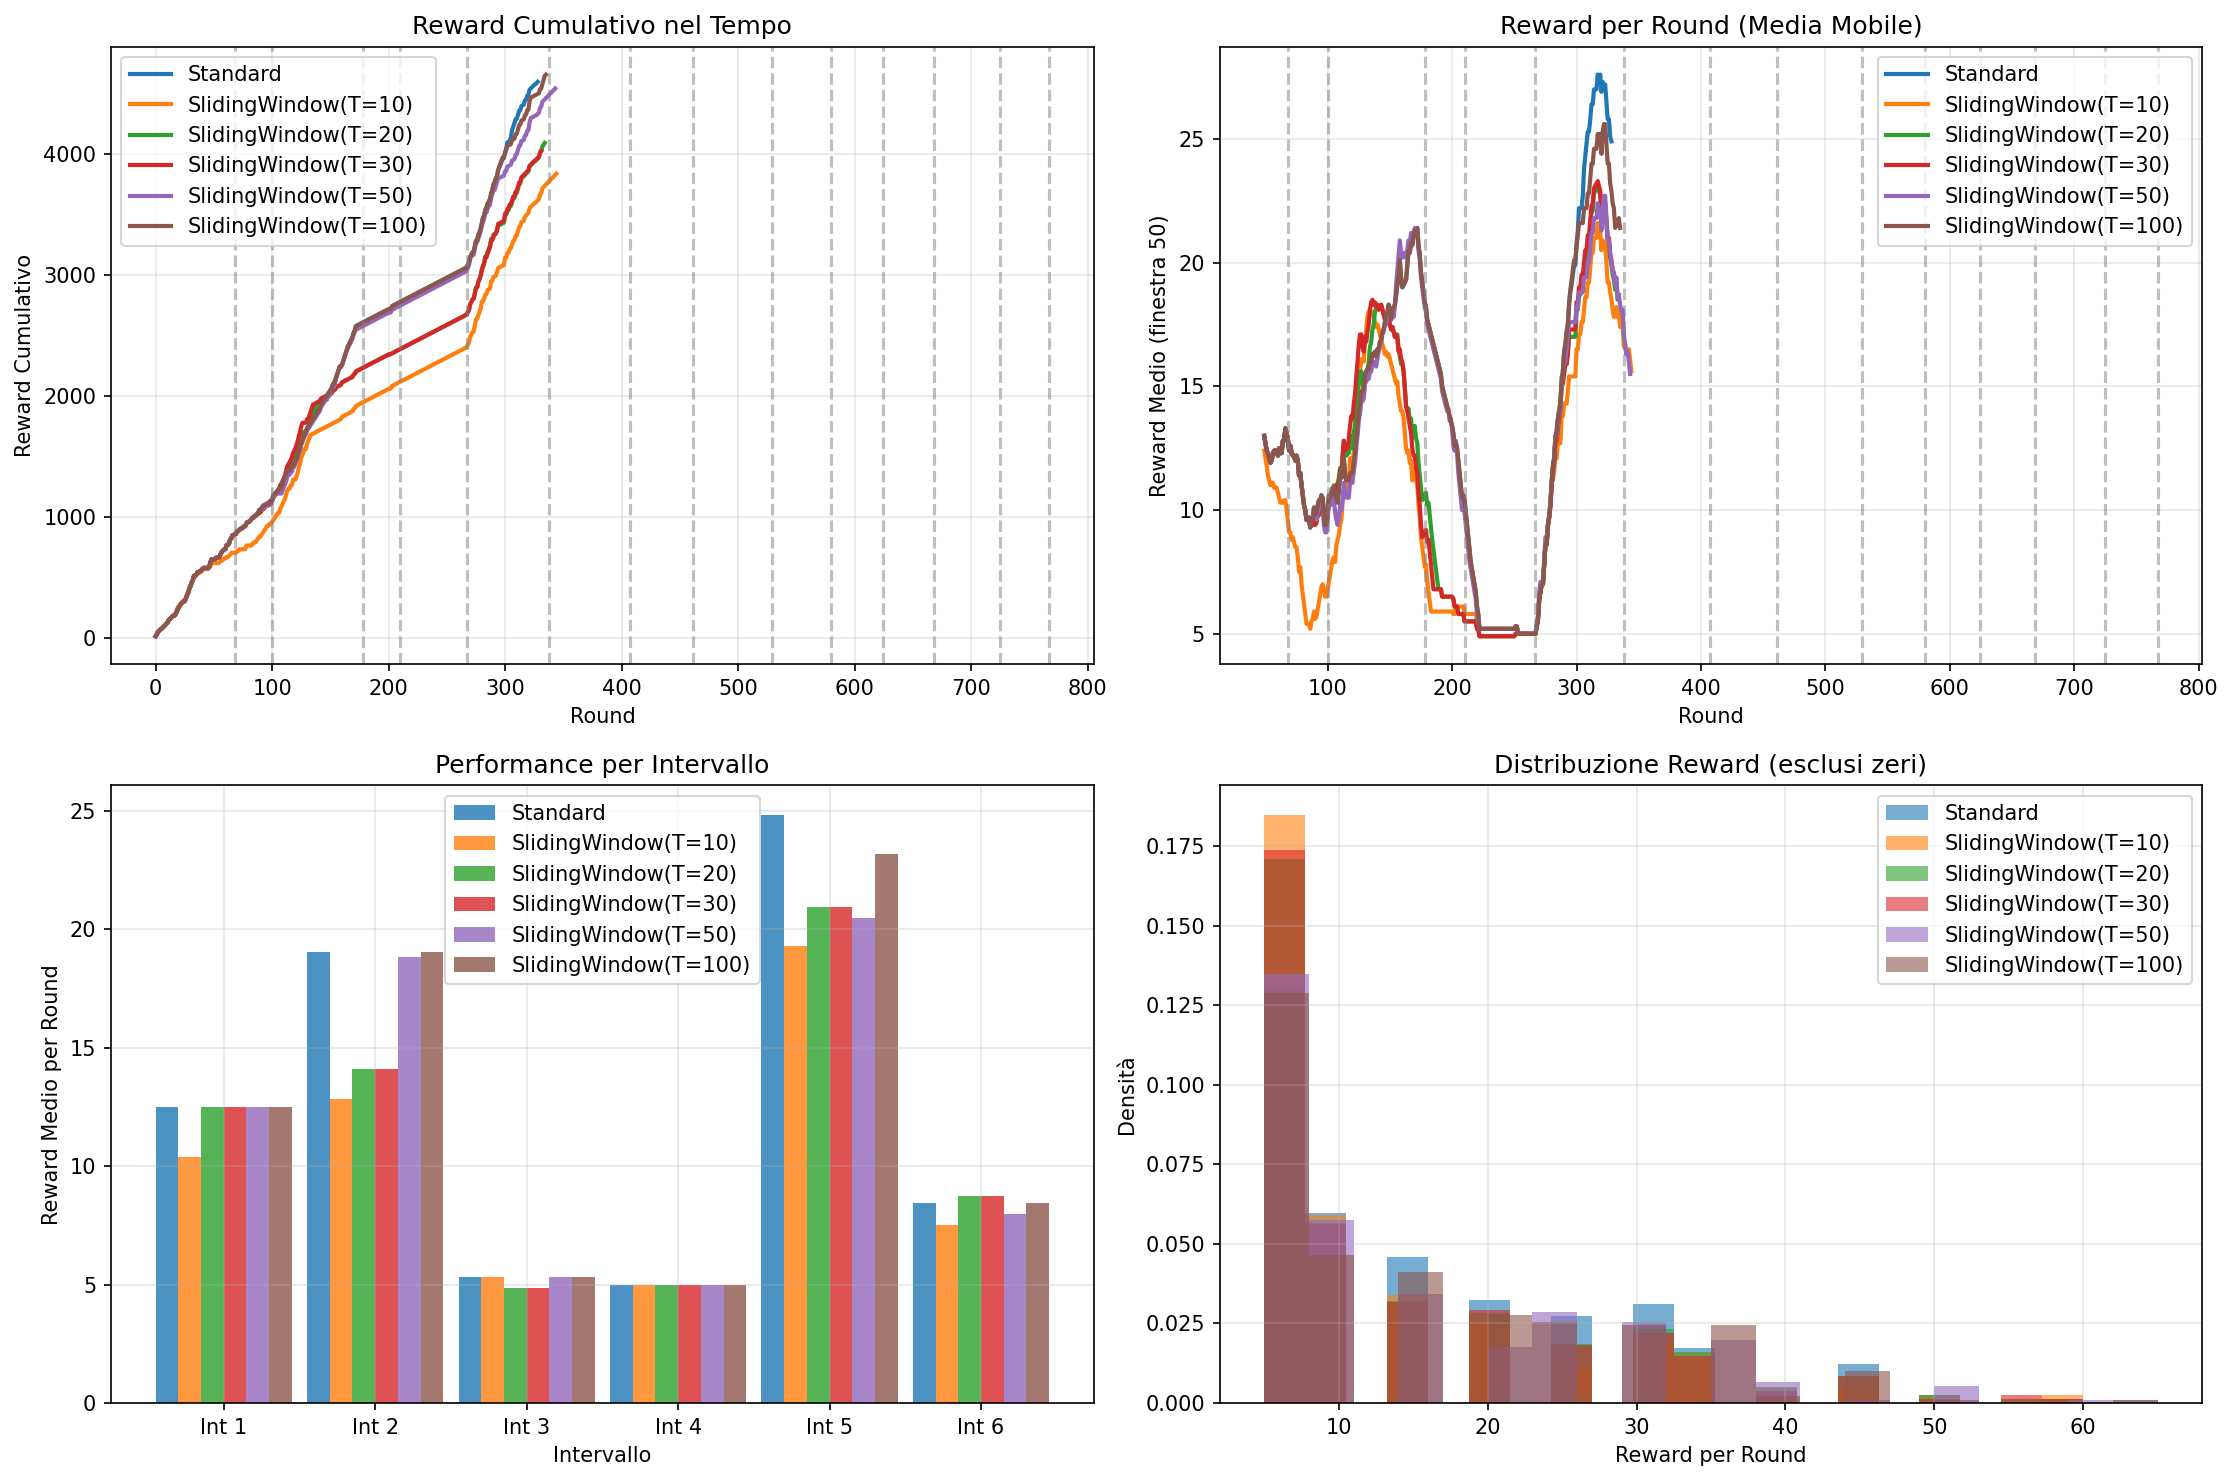
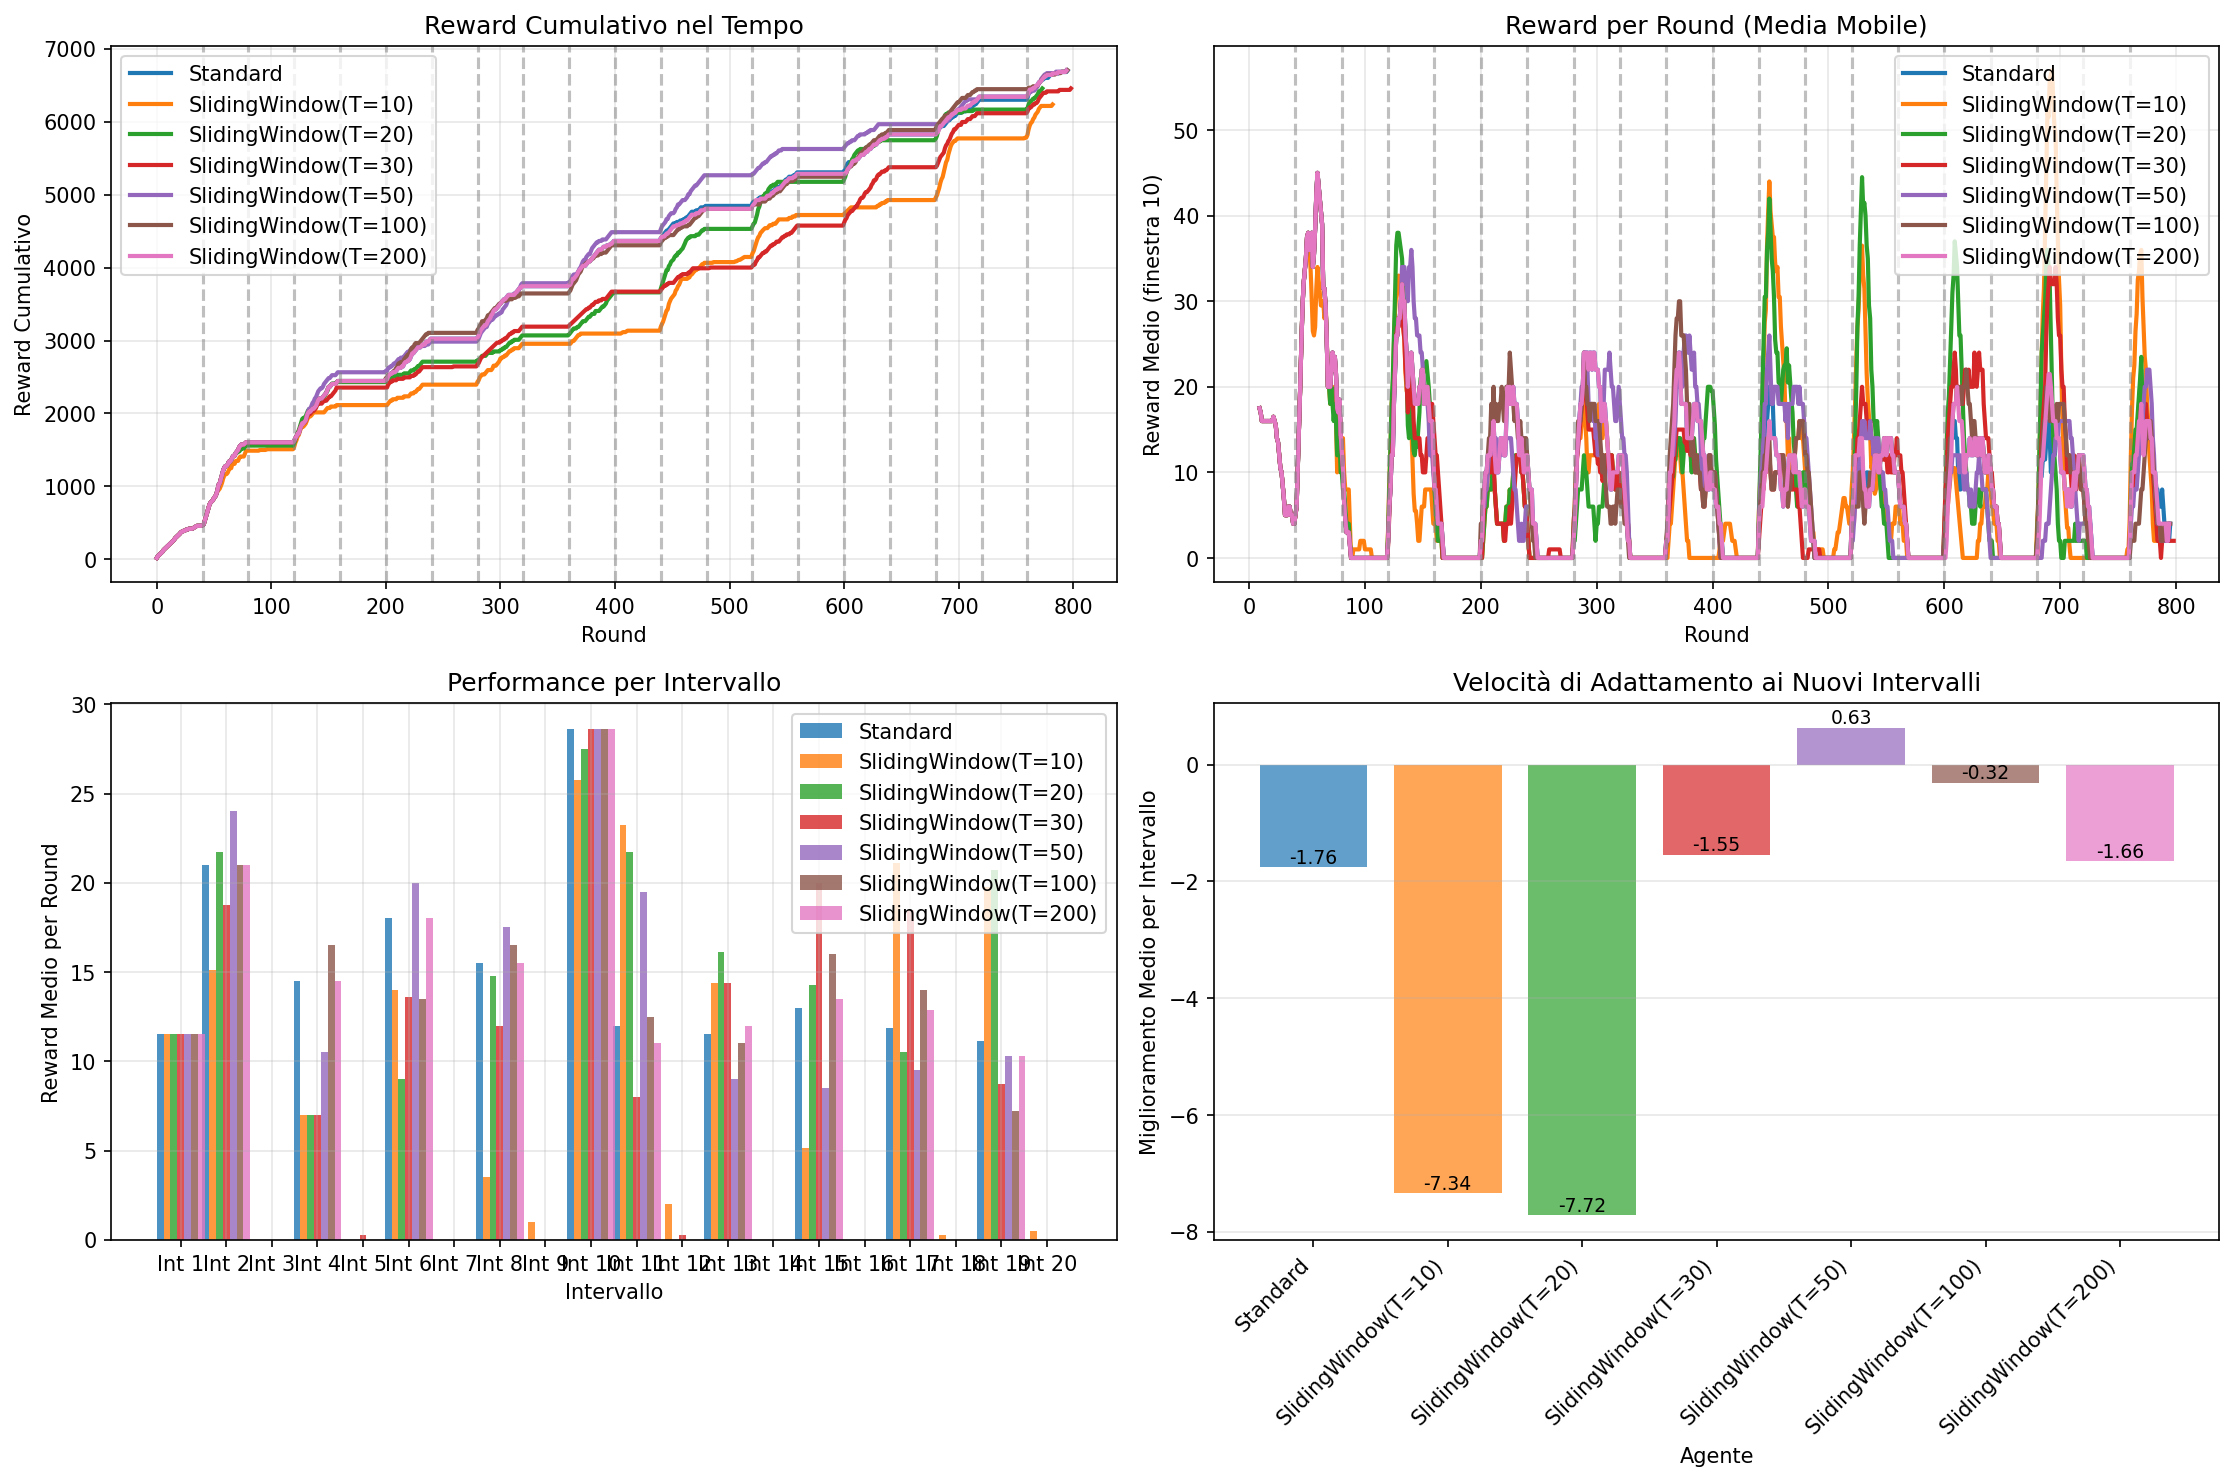
ciao

Changed region(s): [[0.0, 0.0, 1.0, 0.9939], [0.0, 0.6523, 0.0309, 0.7454], [0.0309, 0.528, 0.0618, 0.5591]]

diff --git a/test_nonstationary.py b/test_nonstationary.py
@@ -216,7 +216,7 @@ def plot_performance_comparison(results: Dict, env: AbruptSlightlyNonstationaryE
     
     # Subplot 2: Reward per round (moving average)
     plt.subplot(2, 2, 2)
-    window = 50
+    window = 10
     for agent_key, result in results.items():
         rewards = result['total_rewards']
         if len(rewards) >= window:
@@ -265,21 +265,58 @@ def plot_performance_comparison(results: Dict, env: AbruptSlightlyNonstationaryE
     plt.legend()
     plt.grid(True, alpha=0.3)
     
-    # Subplot 4: Distribuzione dei reward
+    # Subplot 4: Efficienza di adattamento agli intervalli
     plt.subplot(2, 2, 4)
-    for agent_key, result in results.items():
-        rewards = result['total_rewards']
-        # Rimuovi zeri per una migliore visualizzazione
-        non_zero_rewards = [r for r in rewards if r > 0]
-        if non_zero_rewards:
-            plt.hist(non_zero_rewards, bins=20, alpha=0.6, 
-                    label=result['agent_name'], density=True)
     
-    plt.xlabel('Reward per Round')
-    plt.ylabel('Densità')
-    plt.title('Distribuzione Reward (esclusi zeri)')
-    plt.legend()
-    plt.grid(True, alpha=0.3)
+    # Calcola l'efficienza di adattamento per ogni agente
+    # Misura quanto velocemente si adattano ai cambiamenti di intervallo
+    adaptation_scores = {}
+    
+    for agent_key, result in results.items():
+        scores = []
+        rewards = result['total_rewards']
+        
+        # Per ogni transizione di intervallo, misura quanto velocemente migliora
+        for i, interval in enumerate(env.intervals[1:], 1):  # Skip primo intervallo
+            start_idx = interval.start_round
+            # Prendi i primi 20 round dell'intervallo (o tutti se meno di 20)
+            adaptation_window = min(20, interval.end_round - start_idx)
+            
+            if start_idx + adaptation_window <= len(rewards):
+                # Confronta primi 10 vs secondi 10 round dell'intervallo
+                first_half = rewards[start_idx:start_idx + adaptation_window//2]
+                second_half = rewards[start_idx + adaptation_window//2:start_idx + adaptation_window]
+                
+                if first_half and second_half:
+                    # Improvement rate: quanto migliorano dalla prima alla seconda metà
+                    first_avg = np.mean(first_half) if first_half else 0
+                    second_avg = np.mean(second_half) if second_half else 0
+                    improvement = second_avg - first_avg
+                    scores.append(improvement)
+        
+        if scores:
+            adaptation_scores[agent_key] = np.mean(scores)
+        else:
+            adaptation_scores[agent_key] = 0
+    
+    # Crea bar plot dell'efficienza di adattamento
+    agent_names = [results[key]['agent_name'] for key in adaptation_scores.keys()]
+    scores = list(adaptation_scores.values())
+    
+    colors = ['#1f77b4', '#ff7f0e', '#2ca02c', '#d62728', '#9467bd', '#8c564b', '#e377c2']
+    bars = plt.bar(range(len(agent_names)), scores, 
+                   color=colors[:len(agent_names)], alpha=0.7)
+    
+    plt.xlabel('Agente')
+    plt.ylabel('Miglioramento Medio per Intervallo')
+    plt.title('Velocità di Adattamento ai Nuovi Intervalli')
+    plt.xticks(range(len(agent_names)), agent_names, rotation=45, ha='right')
+    plt.grid(True, alpha=0.3, axis='y')
+    
+    # Aggiungi valori sopra le barre
+    for bar, score in zip(bars, scores):
+        plt.text(bar.get_x() + bar.get_width()/2, bar.get_height() + max(scores)*0.01,
+                f'{score:.2f}', ha='center', va='bottom', fontsize=9)
     
     plt.tight_layout()
     plt.savefig('nonstationary_comparison.png', dpi=150, bbox_inches='tight')

diff --git a/src/environment.py b/src/environment.py
@@ -1,5 +1,13 @@
 import numpy as np
-from typing import List
+from typing import List, NamedTuple
+
+
+class IntervalInfo(NamedTuple):
+    """Informazioni su un intervallo dell'ambiente non stazionario."""
+    start_round: int
+    end_round: int
+    means: List[float]
+    stds: List[float]
 
 
 class Environment:
@@ -121,9 +129,19 @@ class AbruptSlightlyNonstationaryEnvironment:
         assert len(mean[0]) == len(std[0]), "All means and stds lists must have the same length"
         assert time_horizon % num_intervals == 0, "Time horizon must be divisible by number of intervals"
 
+        self.num_intervals = num_intervals
         self.interval_duration = time_horizon // num_intervals
         self.mean_valuations = np.array(mean)
         self.std_valuations = np.array(std)
+
+        # Crea lista di intervalli per compatibilità con il test
+        self.intervals = []
+        for i in range(num_intervals):
+            start_round = i * self.interval_duration
+            end_round = (i + 1) * self.interval_duration
+            interval_means = [mean[j][i] for j in range(self.num_items)]
+            interval_stds = [std[j][i] for j in range(self.num_items)]
+            self.intervals.append(IntervalInfo(start_round, end_round, interval_means, interval_stds))
 
         valuations = [[] for _ in range(self.num_items)]
         for i in range(num_intervals):
@@ -160,6 +178,36 @@ class AbruptSlightlyNonstationaryEnvironment:
     def round(self, t: int, prices_t: List[float]) -> List[bool]:
         """Alias for get_purchase_decisions for compatibility."""
         return self.get_purchase_decisions(t, prices_t)
+    
+    def get_current_interval_info(self, round_idx: int) -> IntervalInfo:
+        """
+        Ottieni informazioni sull'intervallo corrente per un dato round.
+        
+        Args:
+            round_idx: Indice del round corrente
+            
+        Returns:
+            IntervalInfo con i dati dell'intervallo corrente
+        """
+        if round_idx < 0 or round_idx >= self.time_horizon:
+            raise IndexError(f"Round index {round_idx} out of range [0, {self.time_horizon-1}]")
+        
+        interval_idx = round_idx // self.interval_duration
+        return self.intervals[interval_idx]
+    
+    def get_interval_summary(self) -> str:
+        """
+        Ottieni un riassunto testuale degli intervalli dell'ambiente.
+        
+        Returns:
+            Stringa con il riassunto degli intervalli
+        """
+        summary = f"Ambiente non stazionario con {self.num_intervals} intervalli:\n"
+        for i, interval in enumerate(self.intervals):
+            summary += f"  Intervallo {i+1} (rounds {interval.start_round}-{interval.end_round-1}):\n"
+            summary += f"    Means: {[f'{m:.2f}' for m in interval.means]}\n"
+            summary += f"    Stds:  {[f'{s:.2f}' for s in interval.stds]}\n"
+        return summary
 
 
 if __name__ == "__main__":

diff --git a/req2-simplified.py b/req2-simplified.py
@@ -1,0 +1,62 @@
+import numpy as np
+
+from src.agent import CombinatorialUCBBidding
+from src.core import simulate, ExperimentConfig, EnvironmentConfig, run_single_simulation
+from src.environment import Environment
+from src.plotting import plot_statistics, create_animated_histogram
+
+def get_env(env_config: EnvironmentConfig, experiment_config: ExperimentConfig) -> Environment:
+    return Environment(
+        mean=env_config.means, 
+        std=env_config.stds, 
+        time_horizon=experiment_config.time_horizon
+    )
+
+def get_agent(experiment_config: ExperimentConfig) -> CombinatorialUCBBidding:
+    return CombinatorialUCBBidding(
+        num_items=experiment_config.num_items,
+        price_set=experiment_config.price_range,
+        budget=experiment_config.budget,
+        time_horizon=experiment_config.time_horizon,
+        exploration_param=experiment_config.exploration_param
+    )
+
+def run_experiment_with_animation() -> None:
+    env_config = EnvironmentConfig(
+        means=[10, 15, 20],  # Different means for each item
+        stds=[4, 5, 6],      # Different standard deviations for each item
+    )
+
+    experiment_config = ExperimentConfig(
+        time_horizon=1000,
+        budget=200,
+        price_range=list(range(5, 31, 5)),  # Prices from 5 to 30
+        num_trials=1,
+        exploration_param=0.3,
+        environment=env_config
+    )
+
+    single_result = run_single_simulation(get_agent(experiment_config), get_env(env_config, experiment_config), experiment_config, track_time_series=True)
+    if single_result.time_series_data:
+        baseline_prices = np.array(single_result.baseline_price_per_item)
+        create_animated_histogram(
+            single_result.time_series_data,
+            baseline_prices,
+            experiment_config.price_range,
+            output_filename="agent_prices.gif",
+            fps=2
+        )
+    
+    result = simulate(
+        agent_builder=lambda: get_agent(experiment_config),
+        env_builder=lambda: get_env(env_config, experiment_config),
+        config=experiment_config,
+    )
+    
+    plot_statistics(result, rounds_per_trial=experiment_config.time_horizon, 
+                   n_trials=experiment_config.num_trials,
+                   initial_budget=experiment_config.budget)
+
+
+if __name__ == "__main__":
+    run_experiment_with_animation()

diff --git a/src/agent.py b/src/agent.py
@@ -229,7 +229,7 @@ class CombinatorialUCBBidding:
                 self.average_costs[item_idx, price_idx]
             self.average_costs[item_idx, price_idx] += cost_diff / pull_count
 
-        assert np.any(c not in (0, 1) for c in costs)
+        assert np.all(c in (0, 1) for c in costs)
         self.remaining_budget -= np.sum(costs)
         self.current_round += 1
 
@@ -629,7 +629,7 @@ class SlidingWindowUCBBidding:
             )
 
         # Update budget and round counter
-        assert np.any(c not in (0, 1) for c in costs)
+        assert np.all(c in (0, 1) for c in costs)
         self.remaining_budget -= np.sum(costs)
         self.current_round += 1
 
